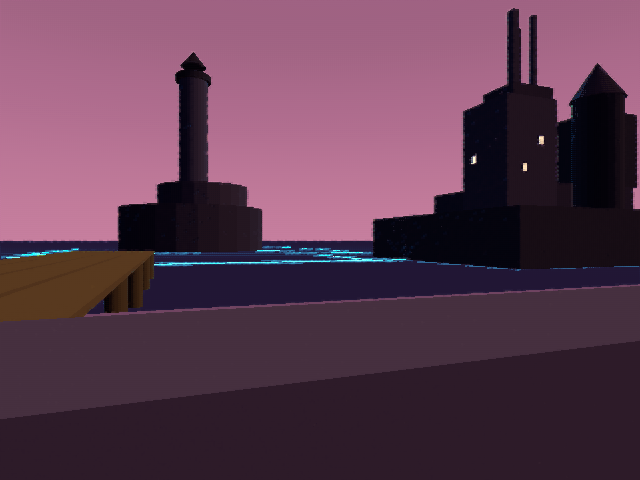
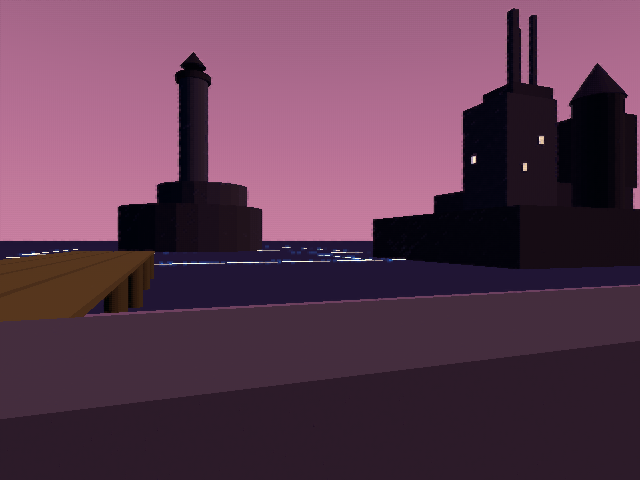
N3 salvage: accumulate_backward_delta refactor + v4 trainer wip (firefly loss mid-build)
(cherry picked from commit 096c70e6069f13cf7710312704fe49a295520a5d)

diff --git a/packages/scrying-glass/examples/rdirect_train_v4.rs b/packages/scrying-glass/examples/rdirect_train_v4.rs
@@ -20,7 +20,7 @@
 //! Run: cargo run -p scrying-glass --release --example rdirect_train_v4
 //!   GAIA_V4_EPOCHS, GAIA_V4_STILL (K), GAIA_V4_SUBSAMPLE, GAIA_V4_W/H, GAIA_V4_CKPT,
 //!   GAIA_V4_FF (firefly weight), GAIA_V4_FFK (cap window radius), GAIA_V4_FFMARGIN,
-//!   GAIA_V4_SPARK_STOP (early-stop sparkle target), GAIA_V4_MONITOR (epochs/check)
+//!   GAIA_V4_SPARK_TGT / GAIA_V4_RESID_GATE (combined best-checkpoint gates), GAIA_V4_MONITOR (epochs/check)
 
 use std::path::Path;
 use std::time::Instant;
@@ -147,6 +147,17 @@ fn lum(c: GVec3) -> f32 {
     0.2126 * c.x + 0.7152 * c.y + 0.0722 * c.z
 }
 
+/// Linear RMSE vs the teacher (the ordeal's resid metric) — monitored so the
+/// firefly term does not silently darken the image (collateral over-clamp).
+fn rmse_lin(net: &[GVec3], teacher: &[GVec3]) -> f64 {
+    let mut s = 0.0f64;
+    for (a, b) in net.iter().zip(teacher) {
+        let d = *a - *b;
+        s += (d.x * d.x + d.y * d.y + d.z * d.z) as f64;
+    }
+    (s / (net.len() as f64 * 3.0)).sqrt()
+}
+
 /// The ORDEAL's exact sparkle metric: isolated bright dots the net invented
 /// over the converged teacher, per megapixel. Used as a training monitor.
 fn sparkle_resid_per_mpx(net: &[GVec3], teacher: &[GVec3], w: u32, h: u32) -> f64 {
@@ -231,8 +242,11 @@ fn main() {
     // ── IRON firefly params ──
     let ff_w = env_f32("GAIA_V4_FF", 6.0); // firefly clamp weight
     let cap_radius = env_u32("GAIA_V4_FFK", 2) as i32; // k×k window = (2r+1)²
-    let cap_margin = env_f32("GAIA_V4_FFMARGIN", 0.05); // demod-log slack over teacher nbhd max
-    let spark_stop = env_f32("GAIA_V4_SPARK_STOP", 30.0); // early-stop under this (bar 40)
+    let cap_margin = env_f32("GAIA_V4_FFMARGIN", 0.20); // demod-log slack: ONLY true outliers (surgical)
+    // 480-monitor sparkle scales ~2.2× to the 640×480 ordeal, so aim well under
+    // the 40 bar; and keep resid near v3's 0.0325 (the ordeal resid bar is 0.035).
+    let spark_target = env_f32("GAIA_V4_SPARK_TGT", 16.0); // 480-monitor sparkle to clear the 640 bar
+    let resid_gate = env_f32("GAIA_V4_RESID_GATE", 0.036); // reject over-clamped (dark) nets
     let monitor_every = env_u32("GAIA_V4_MONITOR", 10);
 
     let all = scrying_glass::denoiser_dataset::law_poses(&params);
@@ -288,10 +302,14 @@ fn main() {
     let n_px: Vec<usize> = poses.iter().map(|p| (p.tw * p.th) as usize).collect();
     let mut rng = Rng(INIT_SEED ^ 0xF00D ^ ((epoch_start as u64) << 21));
     let t_train = Instant::now();
-    let mut best_sp = f64::INFINITY;
-    // KEEP THE BEST net by held-out sparkle (MSE refit re-sharpens dots as it
-    // trains, so the LATEST net is not the cleanest — the artifact is the best).
+    // KEEP THE BEST net by a COMBINED held-out criterion: among nets whose
+    // sparkle clears the target, the LOWEST resid; if none clear it yet, the
+    // lowest sparkle. (MSE refit re-sharpens dots AND ff over-clamp darkens the
+    // image — the artifact must balance both bars, not just kill sparkle.)
     let mut best_bytes: Vec<u8> = serialize_weights(&mlp);
+    let mut best_sp = f64::INFINITY; // best-so-far sparkle (for the no-pass regime)
+    let mut best_resid = f64::INFINITY; // best resid among sparkle-passing nets
+    let mut have_pass = false;
 
     for epoch in 0..epochs {
         let frac = (epoch_start + epoch) as f32 / epoch_total as f32;
@@ -351,23 +369,31 @@ fn main() {
             );
         }
 
-        // ── sparkle monitor on held-out val pose ──
+        // ── sparkle + resid monitor on held-out val pose ──
         if (epoch + 1) % monitor_every == 0 || epoch + 1 == epochs {
             let net = settle_still(&mlp, &val_pose, k);
             let sp = sparkle_resid_per_mpx(&net, &val_pose.teacher, tw, th);
-            let better = sp < best_sp;
-            if better {
+            let rs = rmse_lin(&net, &val_pose.teacher);
+            let passes = sp < spark_target as f64 && rs < resid_gate as f64;
+            let mut better = false;
+            if passes {
+                // sparkle+resid both clear — keep the lowest-resid such net.
+                if !have_pass || rs < best_resid {
+                    have_pass = true;
+                    best_resid = rs;
+                    better = true;
+                }
+            } else if !have_pass && sp < best_sp {
+                // no combined-pass yet — track lowest sparkle as fallback.
                 best_sp = sp;
+                better = true;
+            }
+            if better {
                 best_bytes = serialize_weights(&mlp);
-                std::fs::write(&wpath, &best_bytes).unwrap(); // best-so-far is the checkpoint
+                std::fs::write(&wpath, &best_bytes).unwrap();
             }
-            eprintln!("[v4] MONITOR epoch {}: val sparkle {sp:.1}/Mpx (bar 40, stop<{spark_stop}){}",
+            eprintln!("[v4] MONITOR epoch {}: val sparkle {sp:.1}/Mpx resid {rs:.4} (tgt sp<{spark_target} resid<{resid_gate}){}",
                 epoch_start + epoch, if better { " *BEST→saved" } else { "" });
-            if sp < spark_stop as f64 {
-                eprintln!("[v4] EARLY STOP @ epoch {}: val sparkle {sp:.1} < {spark_stop} (best net saved)",
-                    epoch_start + epoch);
-                break;
-            }
         }
     }
     eprintln!("[v4] training done in {:.1}s (best val sparkle {best_sp:.1})", t_train.elapsed().as_secs_f64());